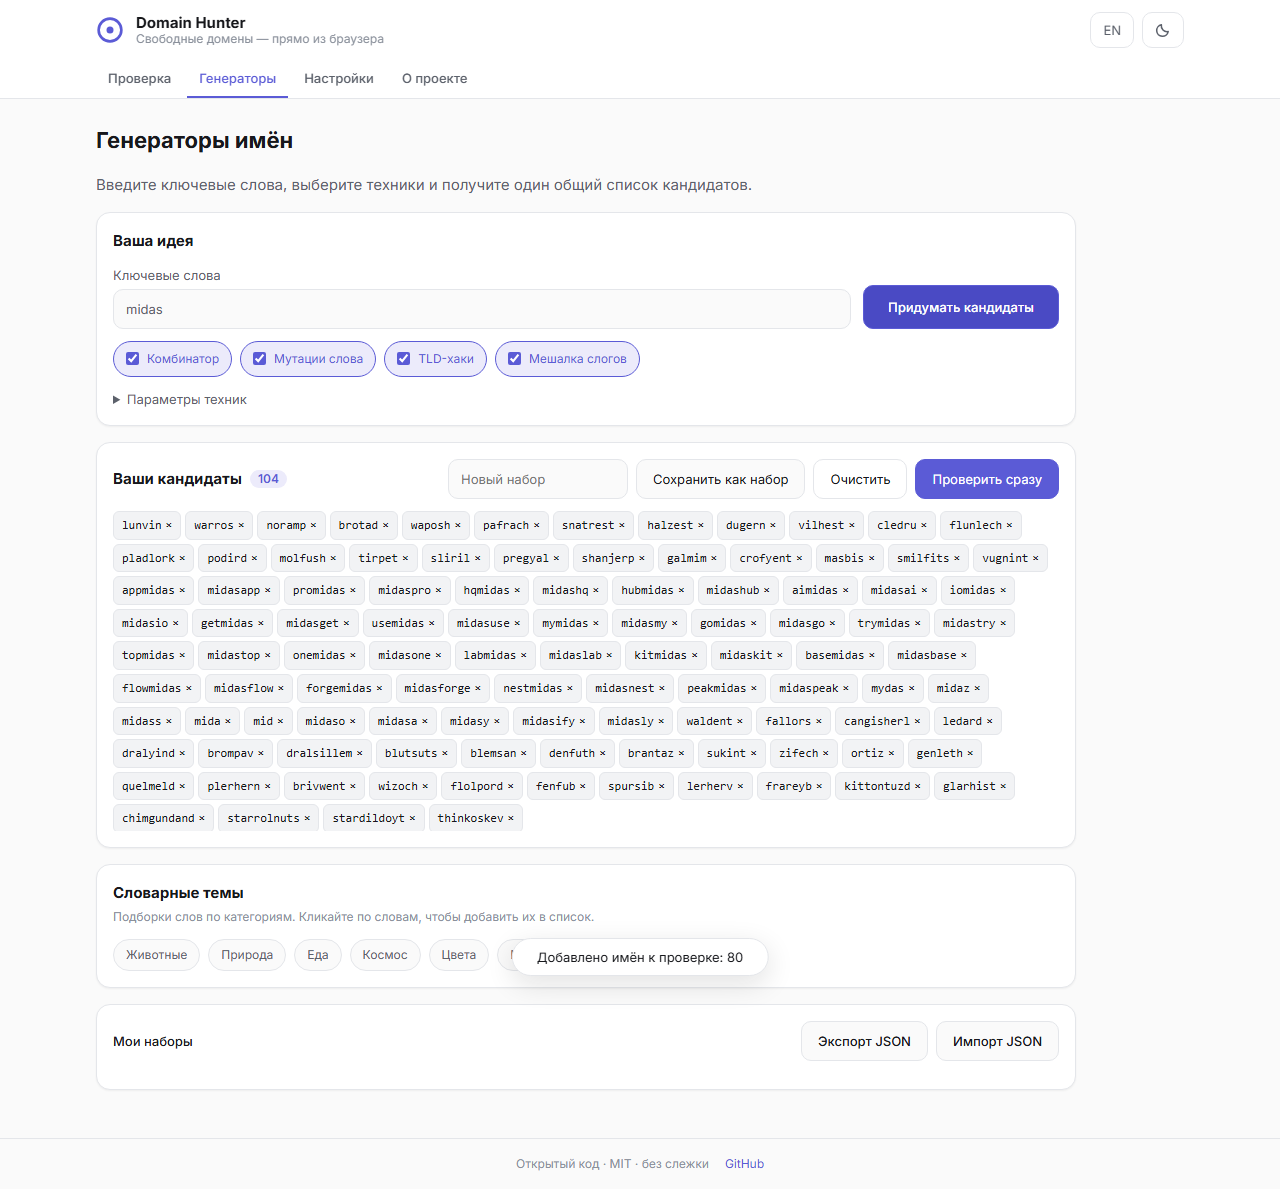
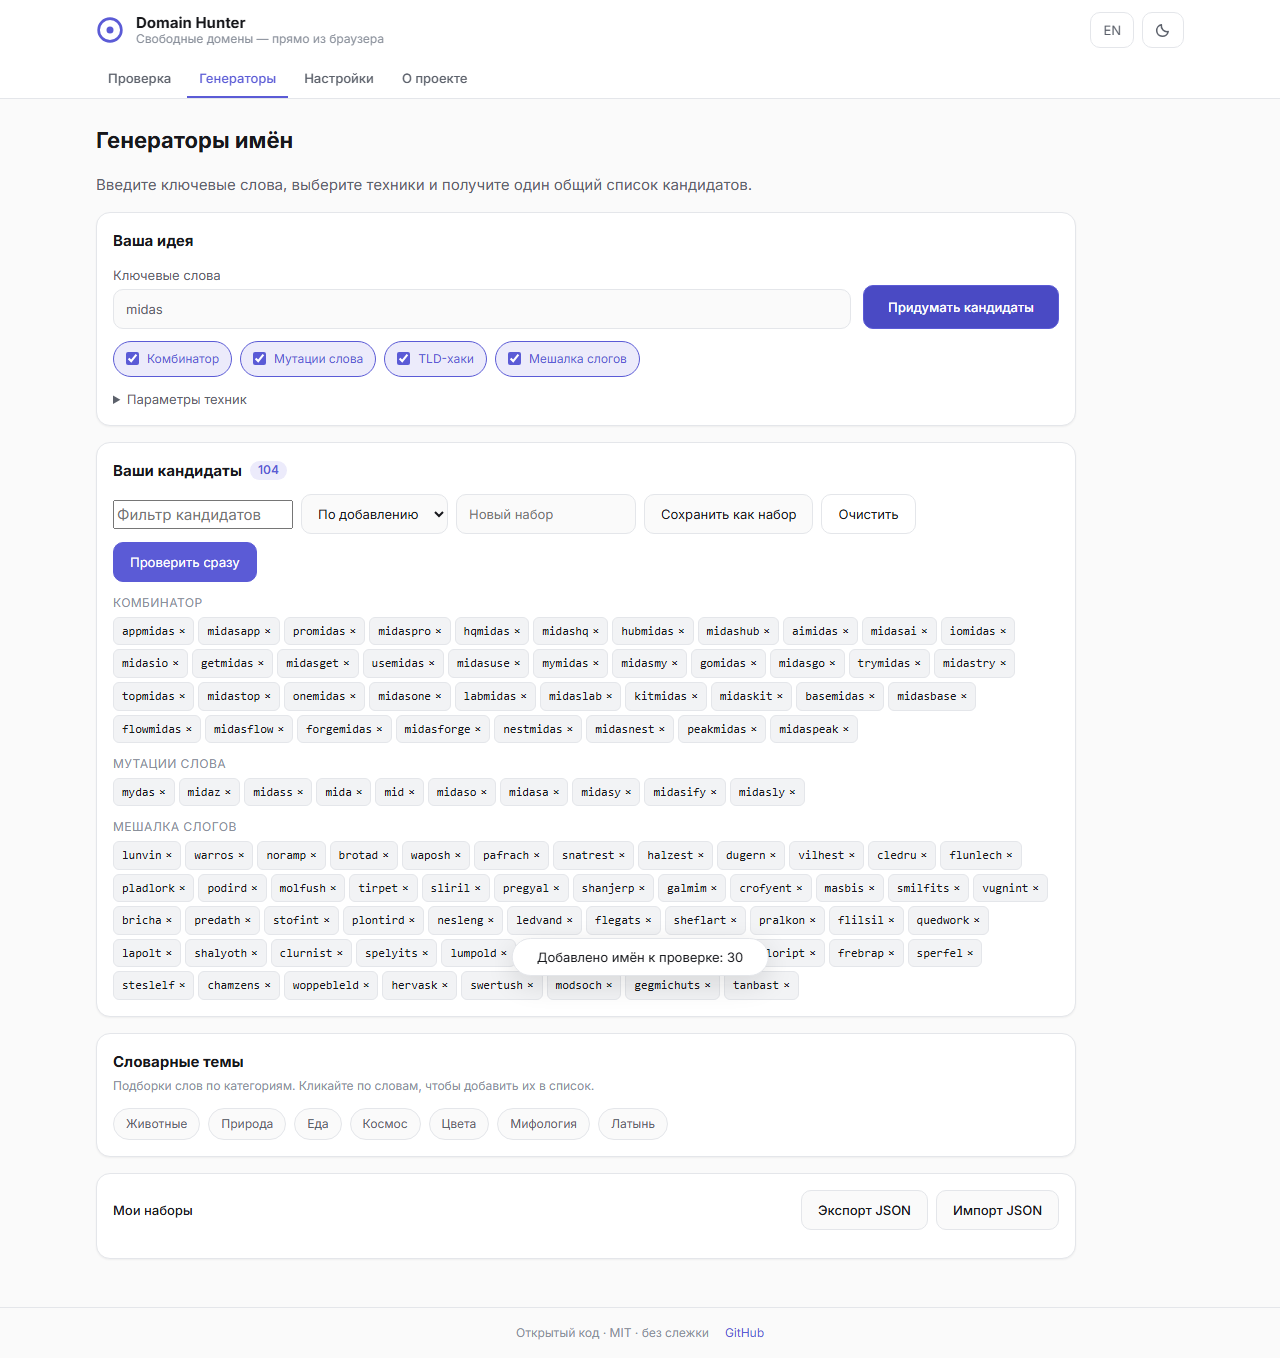
Candidate tray: per-technique caps, filter, sort, source grouping
- Each technique contributes at most 50 candidates (syllables keep their count)
- Tray chips grouped by source (combinator / mutations / hacks /
  syllables / themes / sets) with section labels
- Filter input and added/A-Z sort over the candidate list

diff --git a/src/ui/components/GeneratorsTab.svelte b/src/ui/components/GeneratorsTab.svelte
@@ -25,7 +25,24 @@
   let syllableCount = $state(30);
 
   // combined candidate list — the single output of every technique
-  let candidates = $state<string[]>([]);
+  type SrcId = 'combinator' | 'mutations' | 'hacks' | 'syllables' | 'themes' | 'sets';
+  interface Cand {
+    n: string;
+    src: SrcId;
+  }
+  let candidates = $state<Cand[]>([]);
+  let trayFilter = $state('');
+  let traySort = $state<'added' | 'az'>('added');
+
+  const GROUP_ORDER: SrcId[] = ['combinator', 'mutations', 'hacks', 'syllables', 'themes', 'sets'];
+  const GROUP_LABEL: Record<SrcId, string> = {
+    combinator: 'gen.combinator.title',
+    mutations: 'gen.mutations.title',
+    hacks: 'gen.hacks.title',
+    syllables: 'gen.syllables.title',
+    themes: 'gen.themes.title',
+    sets: 'gen.themes.custom',
+  };
 
   // themes browsing
   let activeThemeId = $state<string>('');
@@ -63,14 +80,16 @@
       .filter(Boolean);
   }
 
-  function addCandidates(names: string[]): void {
+  function addCandidates(names: string[], src: SrcId): void {
     if (names.length === 0) return;
     const merged = [...candidates];
+    const have = new Set(merged.map((c) => c.n));
     let added = 0;
     for (const n of names) {
-      if (merged.includes(n)) continue;
+      if (have.has(n)) continue;
       if (merged.length >= TRAY_MAX) break;
-      merged.push(n);
+      have.add(n);
+      merged.push({ n, src });
       added += 1;
     }
     candidates = merged;
@@ -78,32 +97,58 @@
   }
 
   function removeCandidate(name: string): void {
-    candidates = candidates.filter((w) => w !== name);
+    candidates = candidates.filter((w) => w.n !== name);
   }
+
+  function hasCandidate(name: string): boolean {
+    return candidates.some((c) => c.n === name);
+  }
+
+  const visibleCandidates = $derived.by(() => {
+    const f = trayFilter.trim().toLowerCase();
+    let list = f ? candidates.filter((c) => c.n.toLowerCase().includes(f)) : candidates;
+    if (traySort === 'az') list = [...list].sort((a, b) => a.n.localeCompare(b.n));
+    return list;
+  });
+
+  const candidateGroups = $derived.by(() => {
+    const map = new Map<SrcId, Cand[]>();
+    for (const c of visibleCandidates) {
+      const arr = map.get(c.src) ?? [];
+      arr.push(c);
+      map.set(c.src, arr);
+    }
+    return GROUP_ORDER.filter((g) => map.has(g)).map((g) => ({ id: g, items: map.get(g) ?? [] }));
+  });
+
+  const TECH_CAP = 50;
 
   function generateAll(): void {
     const words = kws();
-    const out: string[] = [];
     if (tech.combinator && words.length > 0) {
-      out.push(...combinator(words, lines(affixes), mode));
+      addCandidates(combinator(words, lines(affixes), mode).slice(0, TECH_CAP), 'combinator');
     }
-    if (tech.mutations) {
-      for (const w of words) out.push(...mutate(w));
+    if (tech.mutations && words.length > 0) {
+      const muts: string[] = [];
+      for (const w of words) muts.push(...mutate(w));
+      addCandidates(muts.slice(0, TECH_CAP), 'mutations');
     }
     if (tech.hacks && words.length > 0) {
-      out.push(...findHacks(words, get(registry).hackTlds).map((f) => f.domain));
+      addCandidates(
+        findHacks(words, get(registry).hackTlds).map((f) => f.domain).slice(0, TECH_CAP),
+        'hacks',
+      );
     }
     if (tech.syllables) {
       const count = Math.max(1, Math.min(200, syllableCount || 30));
-      out.push(...mixSyllables({ count, seed: Date.now() }));
+      addCandidates(mixSyllables({ count, seed: Date.now() }), 'syllables');
     }
-    addCandidates(out);
   }
 
   // candidates actions
   function checkNow(): void {
     if (candidates.length === 0) return;
-    checkInput.set(candidates.join('\n'));
+    checkInput.set(candidates.map((c) => c.n).join('\n'));
     // The Check tab auto-starts the run as soon as it mounts.
     pendingShareRun.set(true);
     activeTab.set('check');
@@ -112,14 +157,14 @@
   function saveSet(): void {
     if (candidates.length === 0) return;
     const name = newSetName.trim() || `${t('gen.themes.newSet')} ${wordSets.length + 1}`;
-    wordSets = [...wordSets, { id: crypto.randomUUID(), name, words: [...candidates] }];
+    wordSets = [...wordSets, { id: crypto.randomUUID(), name, words: candidates.map((c) => c.n) }];
     newSetName = '';
     writeJson(KEYS.wordsets, wordSets);
     showToast(t('settings.saved'));
   }
 
   function loadSet(set: WordSet): void {
-    addCandidates(set.words);
+    addCandidates(set.words, 'sets');
   }
 
   function deleteSet(id: string): void {
@@ -176,7 +221,7 @@
   onMount(() => {
     // Show value immediately: a deterministic sample of syllable names.
     if (candidates.length === 0) {
-      candidates = mixSyllables({ count: 24, seed: 7 });
+      candidates = mixSyllables({ count: 24, seed: 7 }).map((n) => ({ n, src: 'syllables' as SrcId }));
     }
   });
 
@@ -262,6 +307,17 @@
       </h3>
       <div class="controls">
         <input
+          class="filter"
+          type="search"
+          bind:value={trayFilter}
+          placeholder={t('gen.tray.filter')}
+          aria-label={t('gen.tray.filter')}
+        />
+        <select class="sort" bind:value={traySort} aria-label={t('gen.tray.sort')}>
+          <option value="added">{t('gen.tray.sort.added')}</option>
+          <option value="az">{t('gen.tray.sort.az')}</option>
+        </select>
+        <input
           class="set-name"
           type="text"
           bind:value={newSetName}
@@ -287,19 +343,24 @@
     {#if candidates.length === 0}
       <p class="muted">{t('gen.tray.empty')}</p>
     {:else}
-      <div class="tray-words">
-        {#each candidates as name}
-          <button
-            class="tray-chip"
-            type="button"
-            title={t('gen.tray.remove')}
-            onclick={() => removeCandidate(name)}
-          >
-            {name}
-            <span aria-hidden="true">×</span>
-          </button>
-        {/each}
-      </div>
+      {#each candidateGroups as group (group.id)}
+        <div class="group">
+          <span class="group-label">{t(GROUP_LABEL[group.id])}</span>
+          <div class="tray-words">
+            {#each group.items as cand (cand.n)}
+              <button
+                class="tray-chip"
+                type="button"
+                title={t('gen.tray.remove')}
+                onclick={() => removeCandidate(cand.n)}
+              >
+                {cand.n}
+                <span aria-hidden="true">×</span>
+              </button>
+            {/each}
+          </div>
+        </div>
+      {/each}
     {/if}
   </div>
 
@@ -330,12 +391,10 @@
             <button
               class="word"
               type="button"
-              class:selected={candidates.includes(word.w)}
+              class:selected={hasCandidate(word.w)}
               title={word.hint ?? ''}
               onclick={() =>
-                candidates.includes(word.w)
-                  ? removeCandidate(word.w)
-                  : addCandidates([word.w])}
+                hasCandidate(word.w) ? removeCandidate(word.w) : addCandidates([word.w], 'themes')}
             >
               {word.w}
             </button>
@@ -632,6 +691,27 @@
 
   .set-name {
     max-width: 180px;
+  }
+
+  .filter {
+    max-width: 180px;
+  }
+
+  .sort {
+    max-width: 150px;
+  }
+
+  .group {
+    display: flex;
+    flex-direction: column;
+    gap: var(--space-1);
+  }
+
+  .group-label {
+    font-size: var(--text-xs);
+    color: var(--text-tertiary);
+    text-transform: uppercase;
+    letter-spacing: 0.04em;
   }
 
   .tray-words {

diff --git a/src/i18n/ru.ts b/src/i18n/ru.ts
@@ -155,6 +155,10 @@ export const ru: Dict = {
   'gen.tray.clear': 'Очистить',
   'gen.tray.save': 'Сохранить как набор',
   'gen.tray.remove': 'Убрать из списка',
+  'gen.tray.filter': 'Фильтр кандидатов',
+  'gen.tray.sort': 'Сортировка',
+  'gen.tray.sort.added': 'По добавлению',
+  'gen.tray.sort.az': 'А–Я',
   'gen.sets.load': 'В лоток',
   'gen.wordsets.empty': 'Сохранённых наборов пока нет — создайте его из лотка в «Темах».',
   'gen.themes.cat.animals': 'Животные',

diff --git a/src/i18n/en.ts b/src/i18n/en.ts
@@ -154,6 +154,10 @@ export const en: Dict = {
   'gen.tray.clear': 'Clear',
   'gen.tray.save': 'Save as set',
   'gen.tray.remove': 'Remove from list',
+  'gen.tray.filter': 'Filter candidates',
+  'gen.tray.sort': 'Sort',
+  'gen.tray.sort.added': 'By addition',
+  'gen.tray.sort.az': 'A–Z',
   'gen.sets.load': 'To tray',
   'gen.wordsets.empty': 'No saved word sets yet — create one from the Themes tray.',
   'gen.themes.cat.animals': 'Animals',
